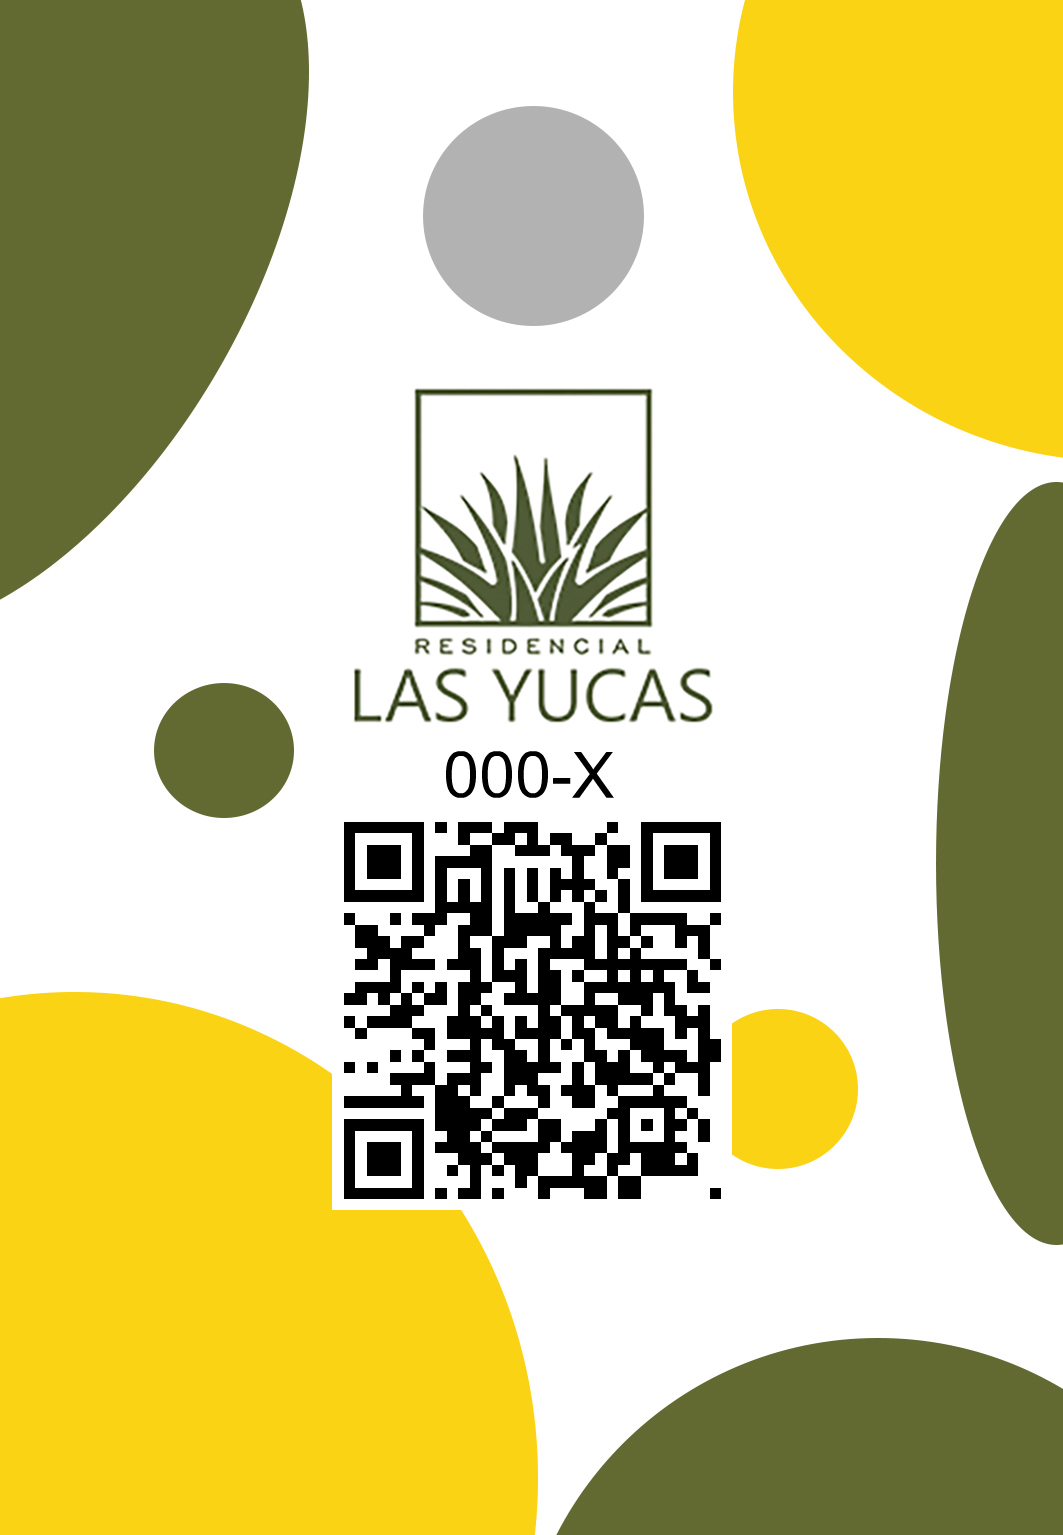
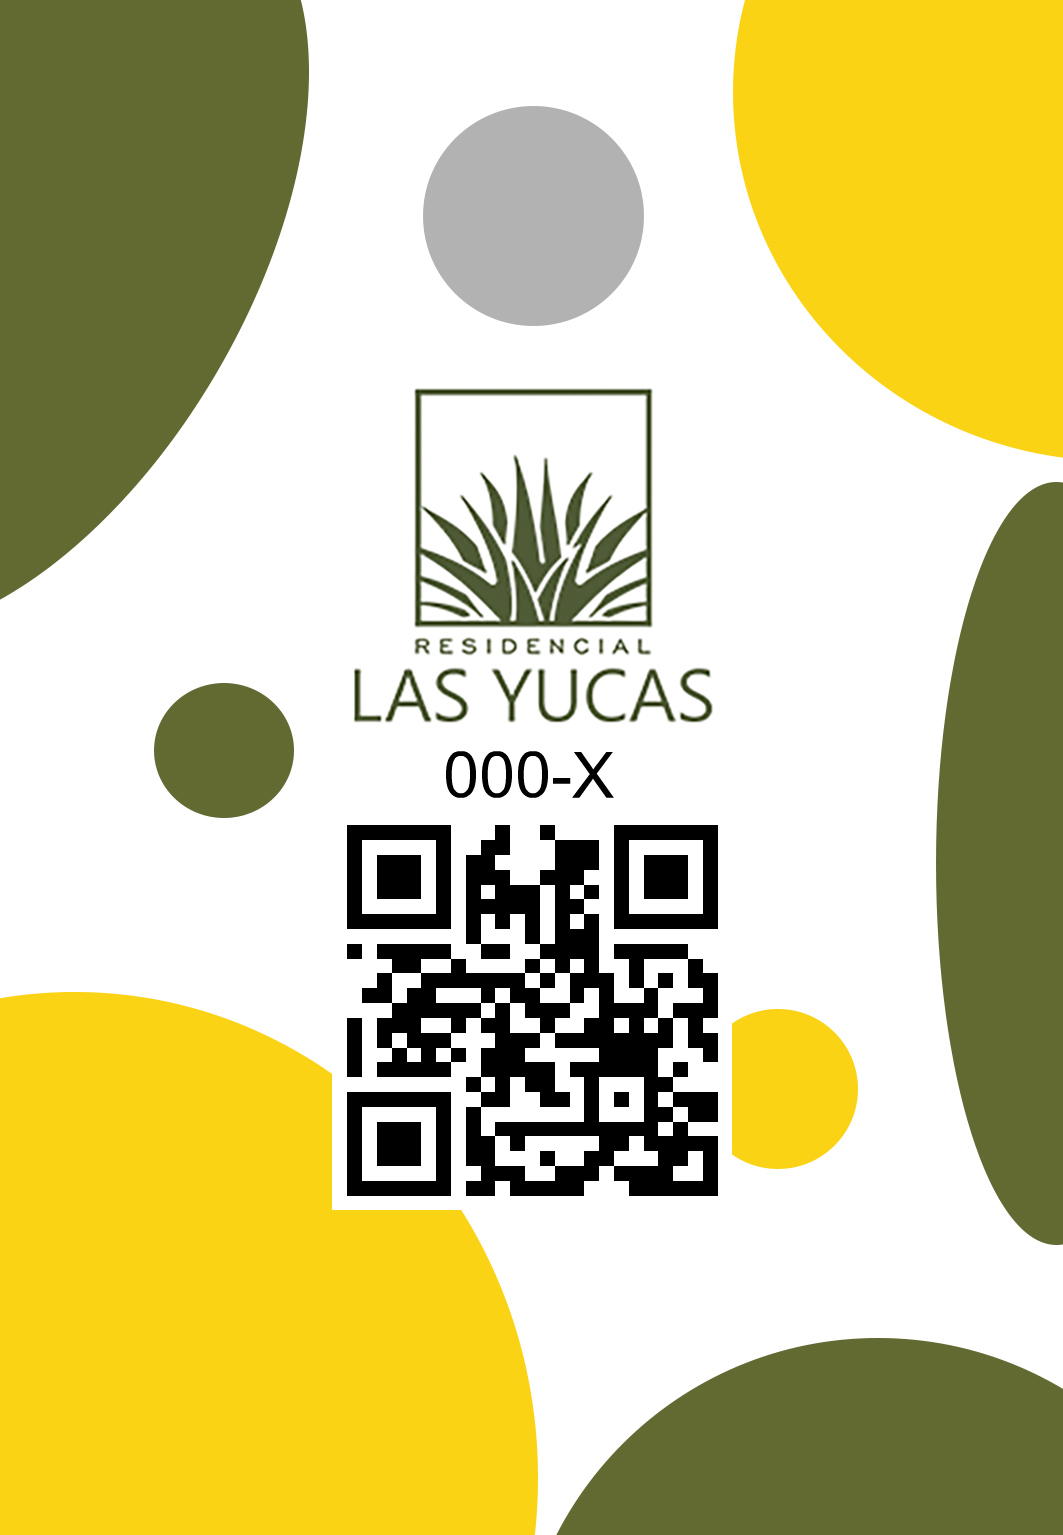
changing the readme

Changed region(s): [[0.3104, 0.5205, 0.683, 0.7961]]

diff --git a/README.md b/README.md
@@ -5,7 +5,14 @@ then, if you need to collet all the images and saved into a PDF run the indexpdf
 this script will do it easy for you.
 
 
-![Logo](https://dev-to-uploads.s3.amazonaws.com/uploads/articles/th5xamgrr6se0x5ro4g6.png)
+# Base Image
+![base-image](https://raw.githubusercontent.com/johntzulik/corbatinyucas/master/assets/las-Yucas-corbatin-9x13.jpg)
+
+# QR Code
+![QR-code](https://raw.githubusercontent.com/johntzulik/corbatinyucas/master/assets/000-X.png)
+
+# Full Image
+![full-images](https://raw.githubusercontent.com/johntzulik/corbatinyucas/master/assets/000-X.jpg)
 
 Please use node v16.2.0
 #
